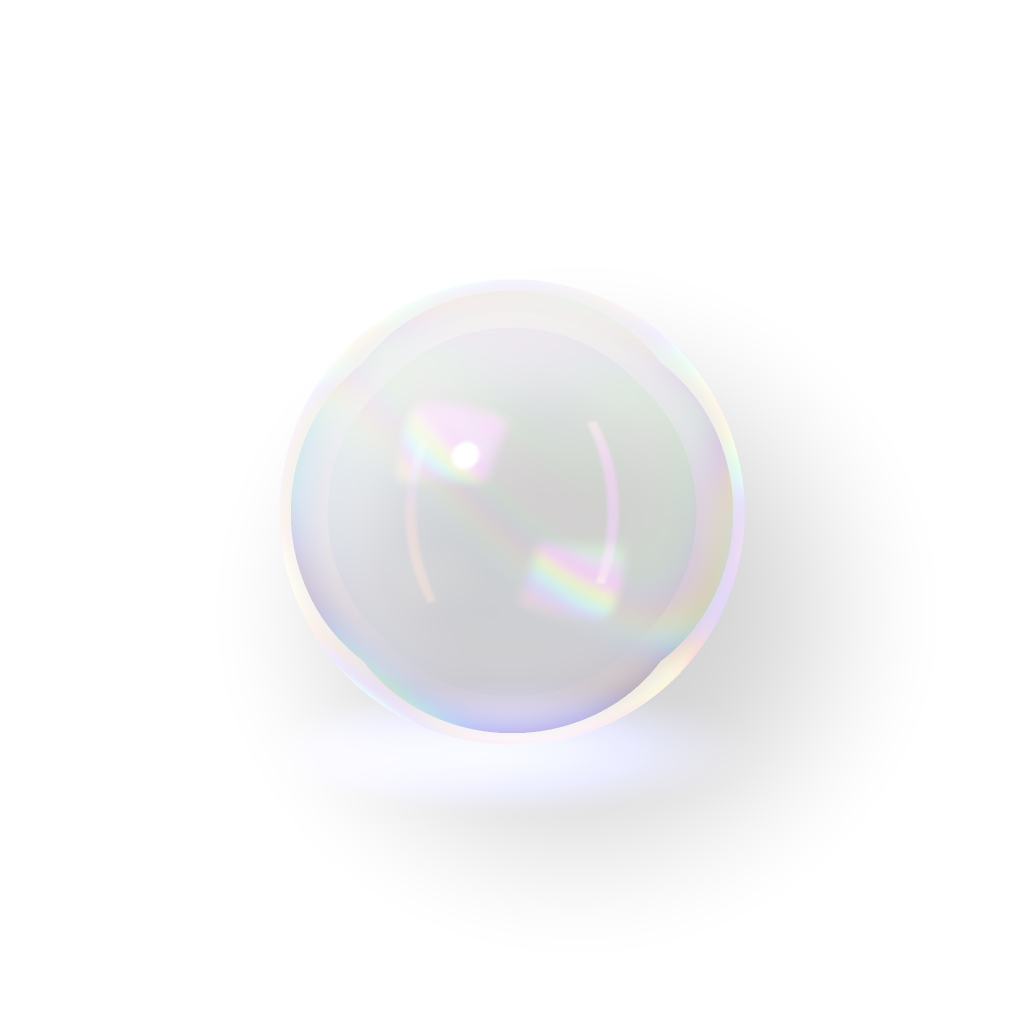
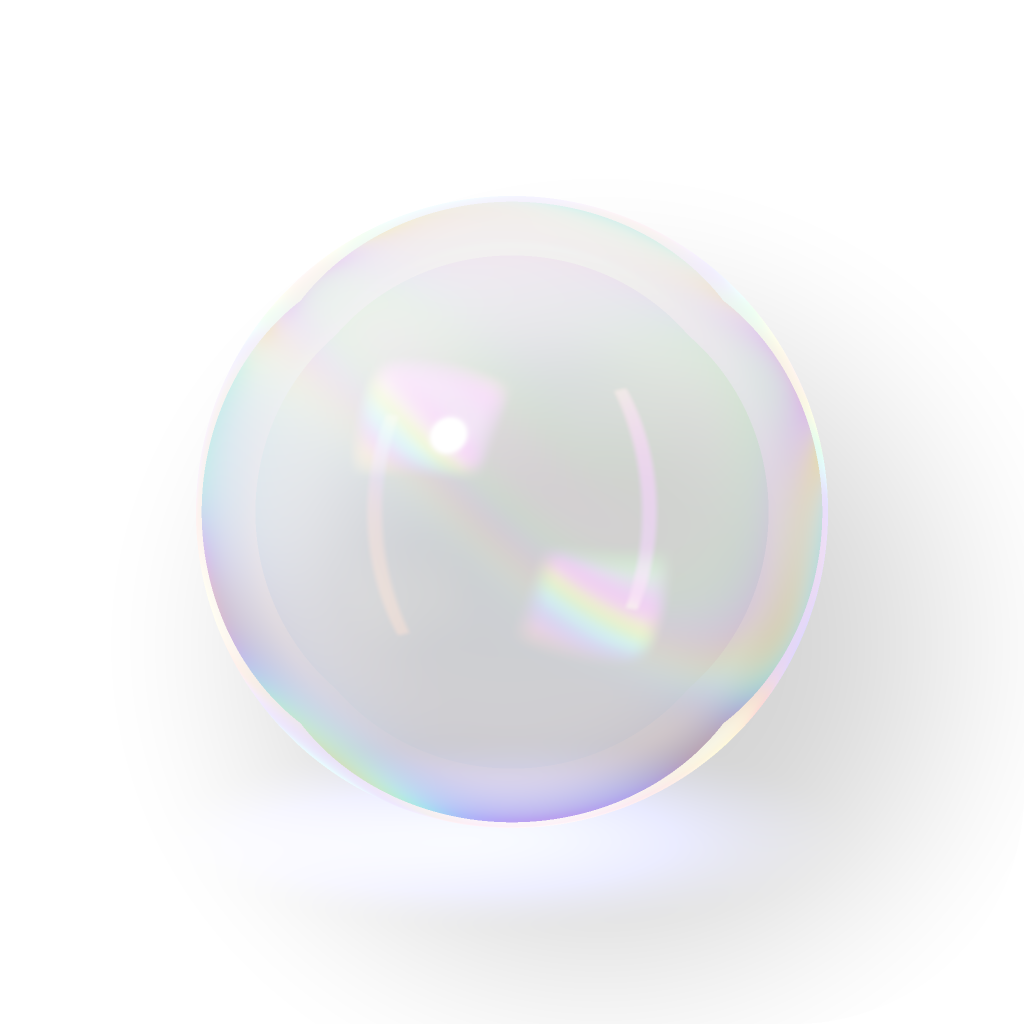
The still's v3: a hairline round the tile, a larger ball, no glow under the dark one
The picture tiles get the same hairline as the live tiles (light on dark). The
ball fills the tile as the live ones do, 62 percent across, where the study's had
45. The dark face loses the cool glow beneath the bubble: the owner doubted it.

diff --git a/src/components/app/orb-glass-tile.tsx b/src/components/app/orb-glass-tile.tsx
@@ -34,17 +34,20 @@ export function OrbGlassTile({ size, material, still, whole, dark = false, shado
     const top = (size - orb) / 2;
     const px = (n: number) => `${(size * n).toFixed(2)}px`;
 
+    // The picture is the tile; the hairline round it is the same as the live tile's, so the two sit alike.
     if (whole) {
         return (
-            <Image
-                src={whole}
-                alt={label ?? ""}
-                width={size}
-                height={size}
-                className={cx("shrink-0", className)}
-                style={{ borderRadius: px(0.2237) }}
-                unoptimized
-            />
+            <div
+                className={cx("relative shrink-0 overflow-hidden", className)}
+                style={{ width: size, height: size, borderRadius: px(0.2237) }}
+                {...(label ? { role: "img", "aria-label": label } : { "aria-hidden": true })}
+            >
+                <Image src={whole} alt="" width={size} height={size} unoptimized />
+                <div
+                    className="pointer-events-none absolute inset-0"
+                    style={{ borderRadius: px(0.2237), boxShadow: dark ? "inset 0 0 0 1px rgb(255 255 255 / 0.1)" : "inset 0 0 0 1px rgb(0 0 0 / 0.08)" }}
+                />
+            </div>
         );
     }
 
